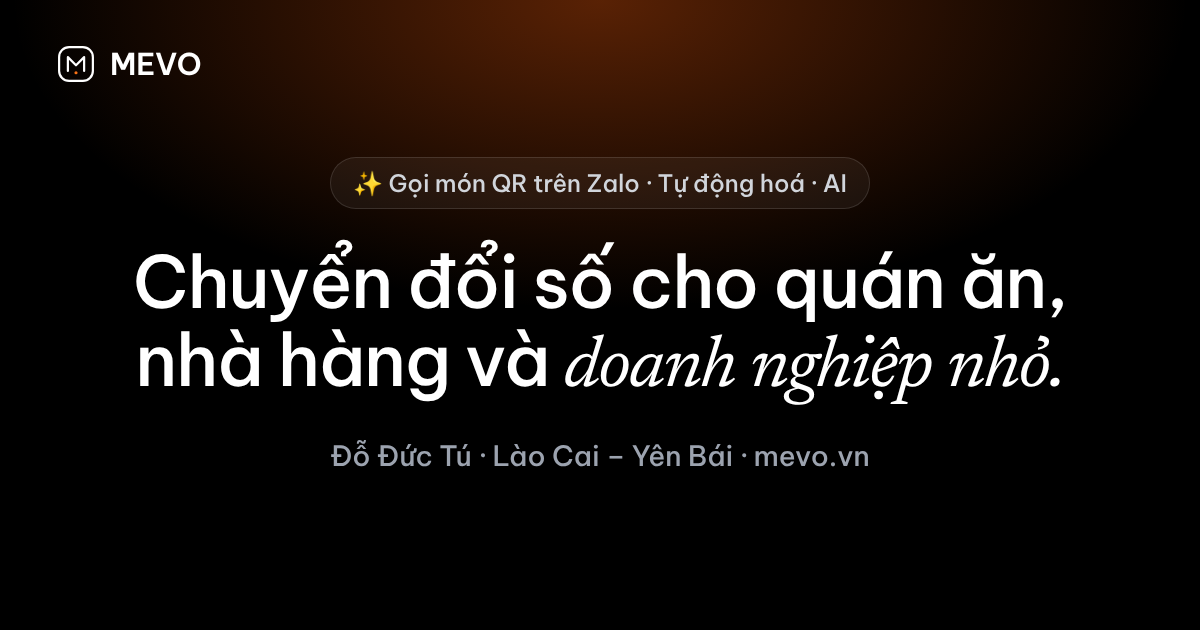
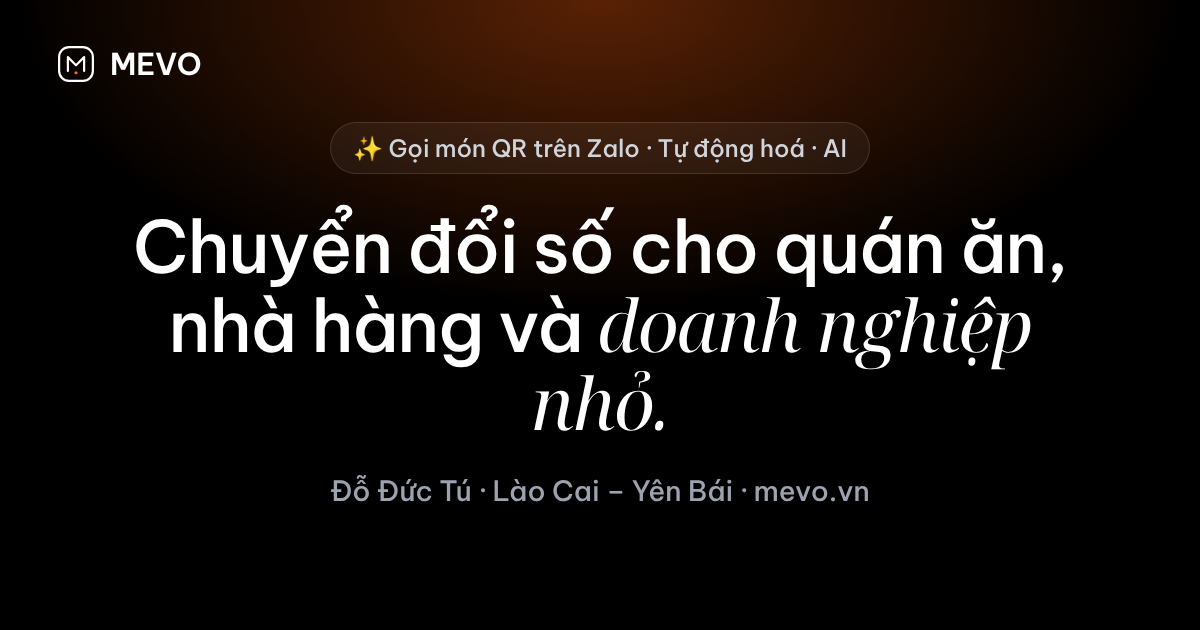
fix: landing mevo.vn - đổi chữ nghiêng sang Noto Serif Display (dấu tiếng Việt đẹp hơn)
Claude-Session: https://claude.ai/code/session_015ZXEf9JnB5BKbxNEMyhfcB

Changed region(s): [[0.0925, 0.2111, 0.8942, 0.8143]]

diff --git a/admin-web/app/page.tsx b/admin-web/app/page.tsx
@@ -1,5 +1,5 @@
 import type { Metadata } from 'next'
-import { Newsreader } from 'next/font/google'
+import { Noto_Serif_Display } from 'next/font/google'
 import { Faq } from '@/components/landing/faq'
 import { FeatureOrdering, FeatureRealtime } from '@/components/landing/features'
 import { Footer } from '@/components/landing/footer'
@@ -10,8 +10,9 @@ import { ModelsSection, ProcessSection, ProductsSection, ServicesSection } from 
 import { Em } from '@/components/landing/ui'
 import { SITE } from '@/lib/landing/site'
 
-// Chữ nghiêng có chân để nhấn trong tiêu đề. Chỉ nạp ở landing (khu quản lý không tải font này).
-const serif = Newsreader({
+// Chữ nghiêng có chân để nhấn trong tiêu đề (anh Tú chọn 2026-10-24: dấu tiếng Việt cân, rõ ở cỡ lớn).
+// Chỉ nạp ở landing (khu quản lý không tải font này).
+const serif = Noto_Serif_Display({
   subsets: ['latin', 'vietnamese'],
   style: ['italic'],
   weight: ['400'],
